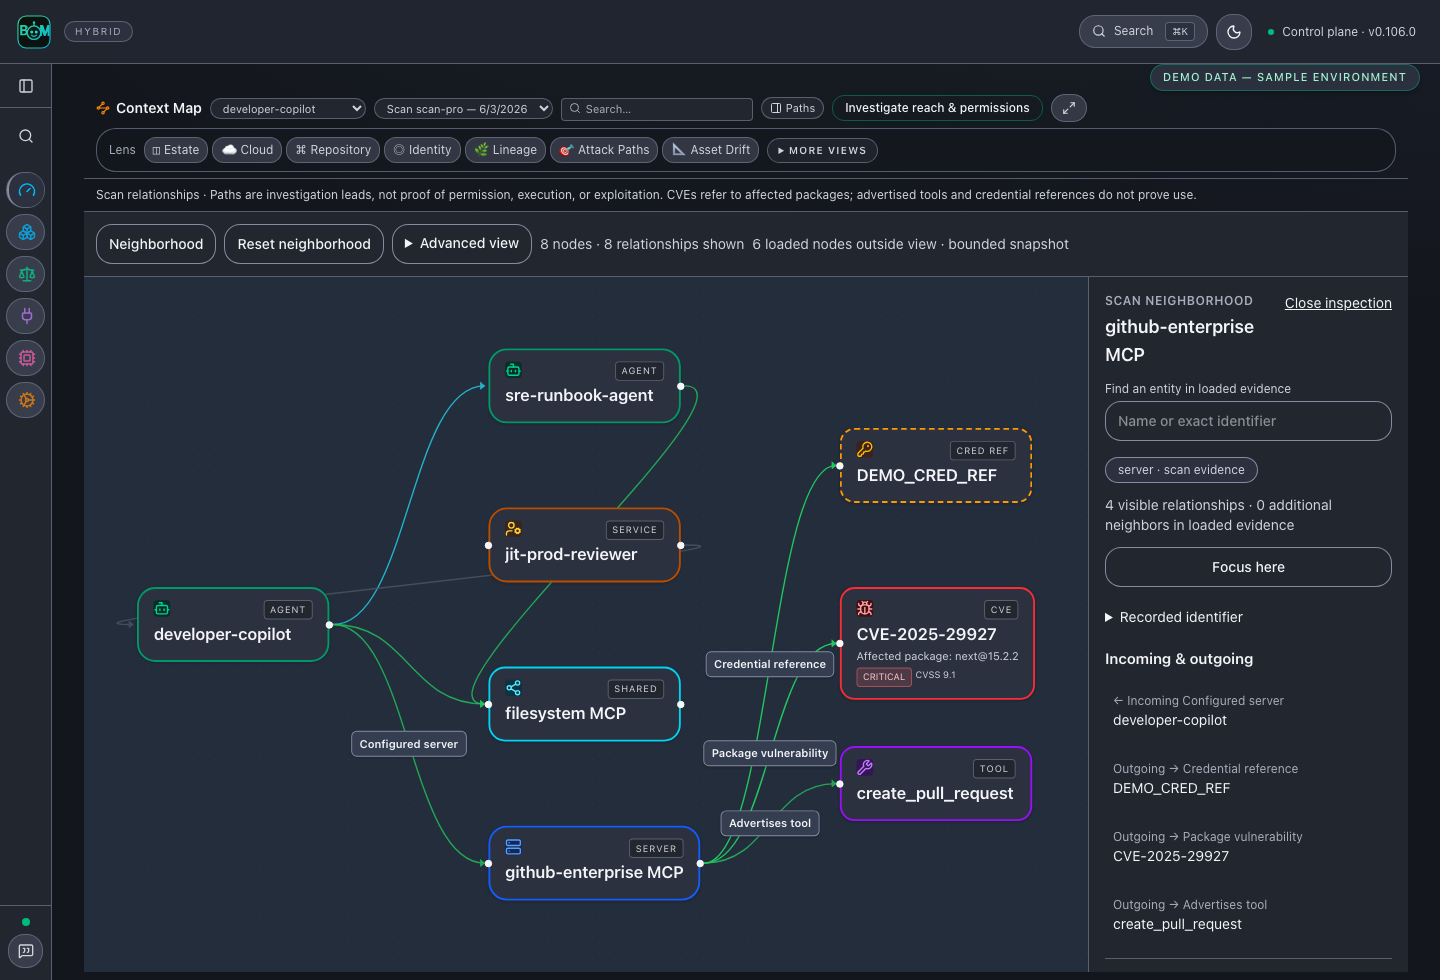
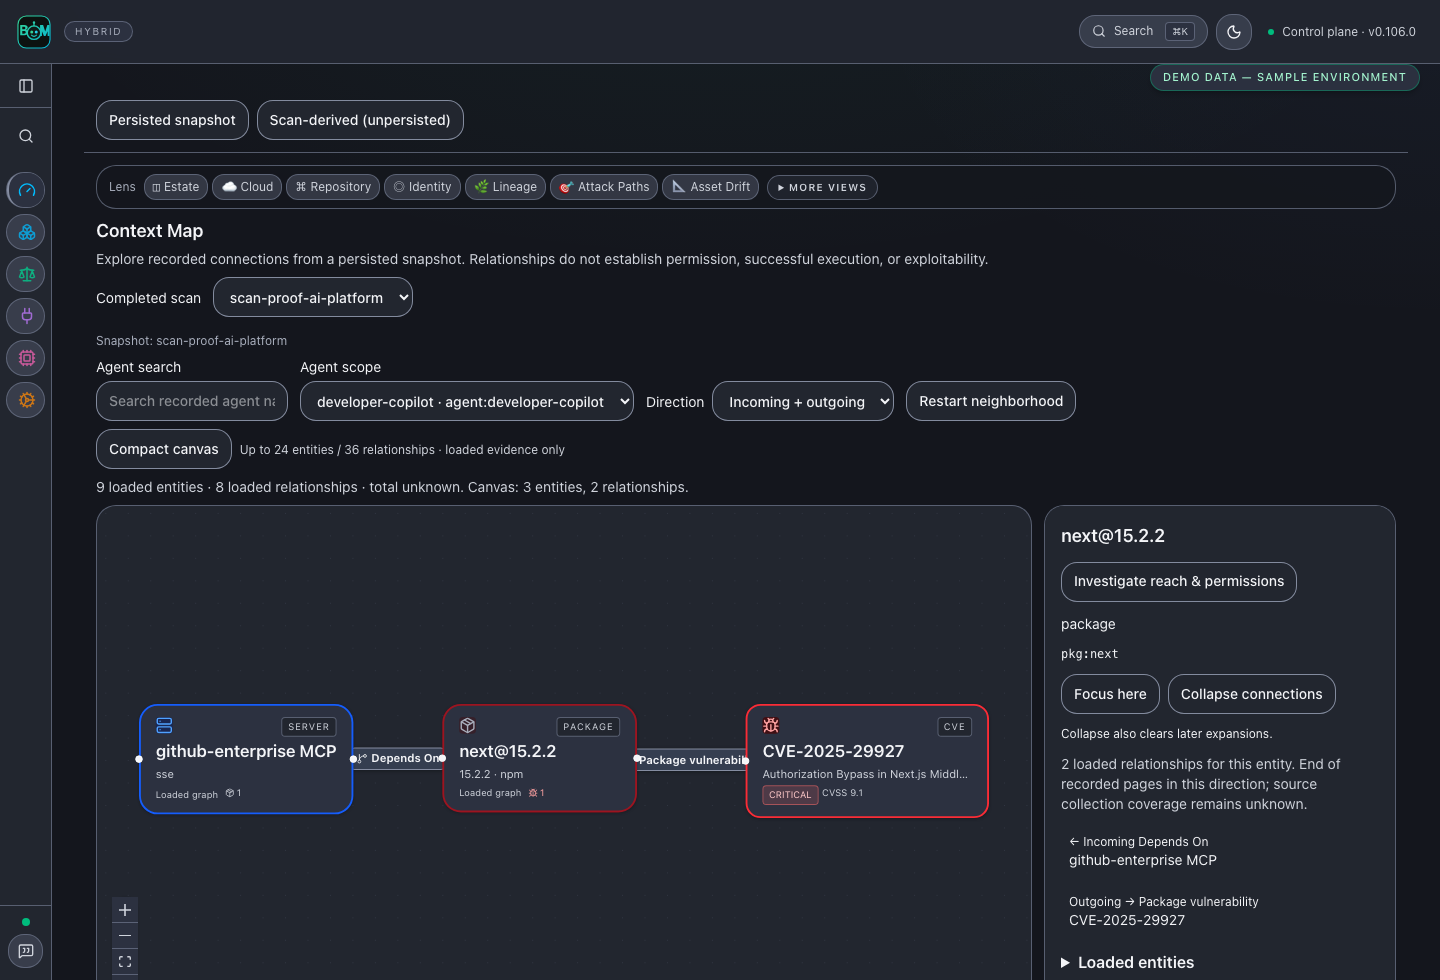
fix(api): expose lightweight graph snapshot identity in scan status

diff --git a/tests/test_hardening.py b/tests/test_hardening.py
@@ -70,6 +70,26 @@ def test_compact_terminal_job_preserves_scan_timestamp_metadata():
     assert "agents" not in compact.result
 
 
+def test_job_summary_graph_locator_preserves_identity_without_serializing_report():
+    import json
+
+    from agent_bom.api.routes.scan import _job_summary_payload
+    from agent_bom.api.server import JobStatus, ScanJob, ScanRequest
+
+    job = ScanJob(job_id="job-reference", created_at="2026-09-23T00:00:00Z", request=ScanRequest())
+    job.result = {"scan_id": "snapshot-from-source", "agents": [{"payload": "x" * 500_000}]}
+    assert _job_summary_payload(job)["graph_scan_id"] is None
+    job.status = JobStatus.DONE
+    payload = _job_summary_payload(job)
+    assert payload["graph_scan_id"] == "snapshot-from-source"
+    assert "result" not in payload and "agents" not in payload
+    assert len(json.dumps(payload)) < 4096
+    job.result.pop("scan_id")
+    assert _job_summary_payload(job)["graph_scan_id"] == job.job_id
+    job.status = JobStatus.FAILED
+    assert _job_summary_payload(job)["graph_scan_id"] is None
+
+
 def test_job_summary_payload_aliases_generated_at_to_scan_timestamp():
     from agent_bom.api.routes.scan import _job_summary_payload
     from agent_bom.api.server import JobStatus, ScanJob, ScanRequest

diff --git a/scripts/check_product_surface_contract.py b/scripts/check_product_surface_contract.py
@@ -150,7 +150,7 @@ def main() -> int:
             'getTenantQuota: () => get<AuthPolicyResponse["tenant_quota_runtime"]>("/v1/auth/quota")',
             'put<AuthPolicyResponse["tenant_quota_runtime"]>("/v1/auth/quota", body)',
             'del("/v1/auth/quota")',
-            'return get<GraphAgentsResponse>(`/v1/graph/agents${qs ? `?${qs}` : ""}`)',
+            'return get<GraphAgentsResponse>(`/v1/graph/agents${qs ? `?${qs}` : ""}`, signal ? { signal } : {})',
             'return get<FleetResponse>(`/v1/fleet${qs ? `?${qs}` : ""}`)',
         ],
         failures,

diff --git a/src/agent_bom/api/routes/scan.py b/src/agent_bom/api/routes/scan.py
@@ -1262,6 +1262,8 @@ def _job_summary_payload(job: ScanJob) -> dict[str, Any]:
     request_payload = sanitize_sensitive_payload(job.request.model_dump(exclude_defaults=True, exclude_none=True))
     return {
         "job_id": job.job_id,
+        # Locator only: graph persistence may still be unavailable or incomplete.
+        "graph_scan_id": str(result.get("scan_id") or job.job_id) if job.status == JobStatus.DONE else None,
         "tenant_id": job.tenant_id,
         "batch_id": job.batch_id,
         "correlation_cohort_id": job.correlation_cohort_id,

diff --git a/tests/api/test_api_endpoints.py b/tests/api/test_api_endpoints.py
@@ -675,6 +675,7 @@ def test_get_scan_status_omits_large_result_payload():
     assert len(full_body["result"]["blast_radius"][0]["payload"]) == 250_000
     body = status.json()
     assert body["job_id"] == "job-large-result"
+    assert body["graph_scan_id"] == "job-large-result"
     assert body["status"] == "done"
     assert body["summary"]["total_packages"] == 165
     assert body["request"]["inventory"] == "<path:agents.json>"

diff --git a/CHANGELOG.md b/CHANGELOG.md
@@ -11,14 +11,14 @@ Versions follow [Semantic Versioning](https://semver.org/).
 
 ### Added
 
-- Bounded relationship paging in SQLite and Postgres graph stores, with tenant-scoped cursors invalidated by snapshot replacement. API and dashboard paging integration follow separately.
+- Bounded relationship paging across SQLite, Postgres, REST, and persisted Context exploration. Tenant-scoped cursors and generation checks prevent combining evidence across replaced snapshots.
 - Inspect recorded authority and source receipts at each graph path hop, with bounded pagination and preserved investigation scope.
 - Optional, bounded AWS credential validation through STS, disabled by default and suppressed by offline scans. Validation errors remain unknown without removing findings.
 - Python one-hop tainted-argument evidence for function-reachable CVEs. This additive signal does not establish exploitability or full interprocedural data flow.
 
 ### Fixed
 
-- Explore Context connections in bounded groups with exact-ID search, focus/back navigation, and selection-based relationship labels. Preserve snapshot identity and unknown neighbor totals during graph expansion.
+- Explore persisted Context connections with canonical agent IDs, compact canvases, explicit paging and collapse, and selected relationship labels. Clear stale or account-scoped evidence and resolve graph IDs without downloading full scan reports.
 - Persist tenant-scoped export destinations on Postgres and preserve unknown vulnerability scores in warehouse feeds.
 - Preserve shared scan jobs across replica startup and bind dispatch lease updates to the owning claim.
 - Connect scoped agent investigation to permission receipts, advisory prerequisites, directional neighbor expansion, and exact-agent runtime activity; retain recorded runtime event references consistently in REST and MCP.

diff --git a/site-docs/architecture/security-graph-model.md b/site-docs/architecture/security-graph-model.md
@@ -263,13 +263,14 @@ runtime evidence, and remediation.
 ## Investigate an agent from Context
 
 Context defaults to **Persisted snapshot**. Choose a completed scan, then search
-or page the agent selector. Selection uses the server's canonical node ID, so
+or page the agent selector. The scan status response supplies the graph snapshot ID without downloading the
+full report. Selection uses the server's canonical node ID, so
 identically named agents from different sources remain distinct.
 
 The initial view requests one page of up to 24 recorded relationships. Select a
 node and choose **Expand connections** for its first page, or **Load more
 relationships** for its continuation. **Collapse connections** removes that
-expansion and later expansions; **Focus here** centers the loaded view.
+expansion and later expansions; **Focus here** shows the selected node and its immediate recorded neighbors.
 **Restart neighborhood** clears the workspace and reloads the selected agent.
 Direction filters recorded incoming/outgoing endpoints, not effective permissions.
 
